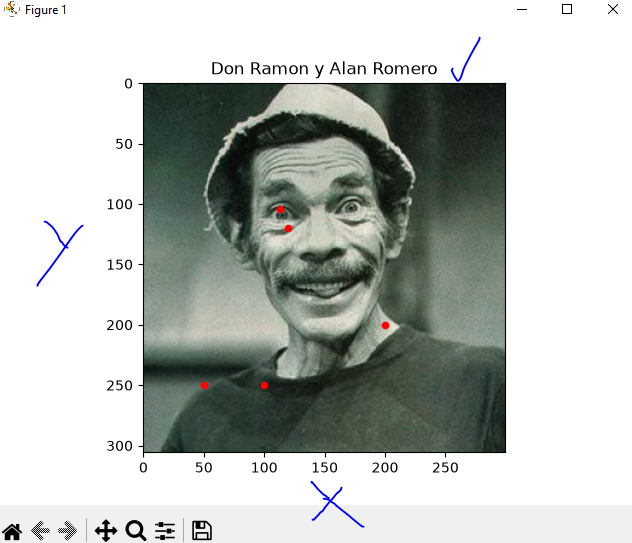
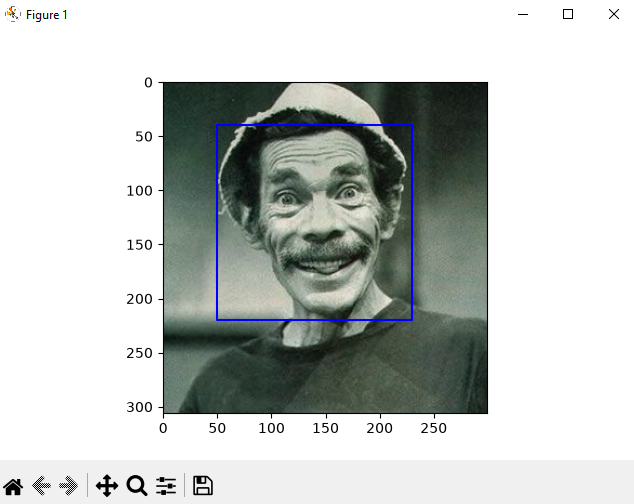
Add files via upload

diff --git a/p3-fig-va-0124.py b/p3-fig-va-0124.py
@@ -6,14 +6,37 @@ import cv2
 # Alan Romero NC 0124
 print("Alan Romero NC 0124")
 print("UIII Act 3 colocar puntos a una imagen en blanco y negro")
-mi_imagen= cv2.imread('don.png')
-plt.imshow(mi_imagen)
+mi_imagendr= cv2.imread('don.png')
+plt.imshow(mi_imagendr)
 plt.title('Don Ramon y Alan Romero')
 plt.show()
 print("-+-+-+- Puntos en la imagen-+-+-+-+-")
-plt.imshow(mi_imagen)
+plt.imshow(mi_imagendr)
 plt.title('Don Ramon y Alan Romero')
 x=[100,200,50,120,113]
 y=[250,200,250,120,104]
 plt.scatter(x,y,s=20,c='red')
 plt.show()
+
+print("-+-+-+-+ Cuadro azul en la imagen+-+-+-+")
+img_Ramon = cv2.imread('don.png')
+plt.imshow(img_Ramon)
+x = [50, 230, 230, 50, 50]
+y = [40, 40, 220, 220, 40]
+plt.plot(x, y, c='blue')
+plt.show()
+print("-+-+-+-+ Circulo verde en la imagen ")
+I = cv2.imread('don.png')
+plt.imshow(I)
+N = 30
+x = np.zeros((N + 1,))
+y = np.zeros((N + 1,))
+(xc, yc) = (145, 130)
+r = 95
+for i in range(N + 1):
+    t = 2 * np.pi / N * i
+    x[i] = xc + r * np.cos(t)
+    y[i] = yc + r * np.sin(t)
+plt.plot(x, y, c='green')
+plt.show()
+

diff --git a/leeme.md b/leeme.md
@@ -2,4 +2,11 @@
 ![alt text](image.png)
 
 ## puntos en la imagen por coordenadas 
+![alt text](image-1.png)
+
+## colocar cuadro azul a la imagen
 ![alt text](image-2.png)
+
+## colocar circulo verde
+![alt text](image-3.png)
+
